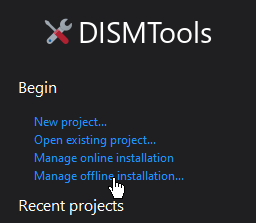
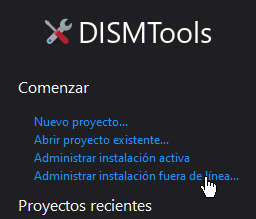
Resource update (part 4)

diff --git a/es/docs/img_tasks/offline_inst_mgmt.md b/es/docs/img_tasks/offline_inst_mgmt.md
@@ -1,14 +1,14 @@
-# Offline installation management mode
+# Modo de administración de imágenes fuera de línea
 
-DISMTools 0.4 lets you manage installations in any partition (referred to as an "offline installation") using the same interface you are used to when managing standard projects and Windows images.
+DISMTools 0.4 y versiones posteriores le permiten administrar instalaciones en cualquier partición (referido como una "instalación fuera de línea") usando la misma interfaz a la que está acostumbrado cuando administra proyectos estándar e imágenes de Windows.
 
 <p align="center">
 	<img src="../../res/img_tasks/offline_inst_mgmt/offline_inst_mgmt.png" />
 </p>
 
-## Accessing this mode
+## Acceder a este modo
 
-You can access this mode in 2 ways: by clicking "Manage offline installation" in the home screen or in the File menu.
+Puede acceder a este modo de 2 formas: haciendo clic en "Administrar instalación fuera de línea" en la pantalla principal o en el menú Archivo.
 
 <p align="center">
 	<td>
@@ -21,23 +21,23 @@ You can access this mode in 2 ways: by clicking "Manage offline installation" in
 	</td>
 </p>
 
-Then, you have to choose the disk containing the Windows installation you want to manage:
+Luego, tiene que escoger el disco que contenga la instalación de Windows que desea administrar:
 
 <p align="center">
 	<img src="../../res/img_tasks/offline_inst_mgmt/off_inst_mgmt_choose_disk.png" />
 </p>
 
-### Unsupported drives
+### Discos no soportados
 
-You can't perform management of an installation on a drive if it meets at least one criterion out of the following:
+No puede realizar administración de una instalación en un disco si cumple al menos uno de los siguientes criterios:
 
-- The drive contains an installation of Windows Vista or an earlier version of Windows
-- The drive containing the installation is not formatted as NTFS
-- The drive containing the installation is mounted as a removable medium
-- The drive containing the installation is mounted with read-only privileges
+- El disco contiene una instalación de Windows Vista o anterior de Windows
+- El disco que contenga la instalación no está formateado con NTFS
+- El disco que contenga la instalación se ha montado como un medio removible
+- El disco que contenga la instalación se ha montado con privilegios de solo lectura
 
-## Differences with standard project management
+## Diferencias con la administración de proyectos estándar
 
-There are some differences between managing an offline installation and a standard project, which will be mentioned below:
+Hay algunas diferencias entre la administración de instalaciones fuera de línea y un proyecto estándar, que serán mencionadas abajo:
 
-- You can't save in the offline installation management mode, because all commit operations are disabled
+- No puede guardar en el modo de administración de instalaciones fuera de línea debido a que todas las opciones de guardado están deshabilitadas

diff --git a/es/docs/img_tasks/img_tasks.md b/es/docs/img_tasks/img_tasks.md
@@ -1,53 +1,63 @@
-# Image tasks
+# Tareas de la imagen
 
-With DISMTools you can perform a variety of tasks, which are organized depending on what action they perform to an image.
+Con DISMTools puede realizar una variedad de tareas, que están organizadas dependiendo de qué hacen en la imagen.
 
-## Where do I find the tasks?
+## ¿Dónde puedo encontrar las tareas?
 
-Every task can be accessed from the "Commands" menu.
+Todas las tareas son accesibles desde el menú "Comandos".
 
 <p align="center">
 	<img src="../../res/img_tasks/cmd_menu.png"/>
 </p>
 
-You also have access to the most essential tasks in the center of the screen.
+También tiene acceso a las tareas más esenciales en el centro de la pantalla.
 
 <p align="center">
 	<img src="../../res/img_tasks/quick_actions.png"/>
 </p>
 
-Do note that these options become accessible when you create a project and mount an image to it. To do those actions, follow the [Getting started](../getting_started/start.md) guide for more information.
+Dese cuenta de que estas opciones son accesibles cuando crea un proyecto y monta una imagen en él. Para hacer estas acciones, siga la guía de [Introducción](../getting_started/start.md) para más información.
 
-## Available tasks
+## Tareas disponibles
 
-- Image management
+- Administración de imágenes
 
-	- Applying Windows images
-	- Capturing Windows images
-	- Performing image cleanup
+	- Anexar cambios a un nuevo índice en la imagen de Windows
+	- Aplicar imágenes de Windows
+	- Capturar imágenes de Windows
+	- Limpiar puntos de montaje
+	- Exportar imágenes de Windows
+	- Obtener información del archivo de imagen
+	- Realizar limpieza de imágenes
 	
-- Package management
+- Administración de paquetes
 
-	- Adding packages
-	- Removing packages
+	- Añadir paquetes
+	- Eliminar paquetes
+	- Obtener información de paquetes
 
-- Feature management
+- Administración de características
 
-	- Enabling features
-	- Disabling features
+	- Habilitar características
+	- Deshabilitar características
+	- Obtener información de características
 
-- AppX package management
+- Administración de paquetes AppX
 
-	- AppX package documentation
-	- Adding AppX packages
-	- Removing AppX packages
+	- Añadir paquetes AppX
+	- Eliminar paquetes AppX
+	- Obtener información de paquetes AppX instalados
 	
-- Capability management
+- Administración de funcionalidades
 
-	- Adding capabilities
-	- Removing capabilities
+	- Añadir funcionalidades
+	- Eliminar funcionalidades
+	- Obtener información de funcionalidades
 
-- Driver management
+- Administración de controladores
 
-	- Adding drivers
-	- Removing drivers
+	- Añadir controladores
+	- Eliminar controladores
+	- Exportar controladores a una carpeta
+	- Importar controladores de otra imagen o instalación
+	- Obtener información de controladores

diff --git a/en/docs/img_tasks/img_tasks.md b/en/docs/img_tasks/img_tasks.md
@@ -22,32 +22,42 @@ Do note that these options become accessible when you create a project and mount
 
 - Image management
 
+	- Appending changes to a new index in the Windows image
 	- Applying Windows images
 	- Capturing Windows images
+	- Cleaning up mount points
+	- Exporting Windows images
+	- Getting image file information
 	- Performing image cleanup
 	
 - Package management
 
 	- Adding packages
 	- Removing packages
+	- Getting package information
 
 - Feature management
 
 	- Enabling features
 	- Disabling features
+	- Getting feature information
 
 - AppX package management
 
-	- AppX package documentation
 	- Adding AppX packages
 	- Removing AppX packages
+	- Getting installed AppX package information
 	
 - Capability management
 
 	- Adding capabilities
 	- Removing capabilities
+	- Getting capability information
 
 - Driver management
 
 	- Adding drivers
 	- Removing drivers
+	- Exporting drivers to a folder
+	- Importing drivers from another image or installation
+	- Getting driver information

diff --git a/en/docs/img_tasks/offline_inst_mgmt.md b/en/docs/img_tasks/offline_inst_mgmt.md
@@ -1,6 +1,6 @@
 # Offline installation management mode
 
-DISMTools 0.4 lets you manage installations in any partition (referred to as an "offline installation") using the same interface you are used to when managing standard projects and Windows images.
+DISMTools 0.4 and later let you manage installations in any partition (referred to as an "offline installation") using the same interface you are used to when managing standard projects and Windows images.
 
 <p align="center">
 	<img src="../../res/img_tasks/offline_inst_mgmt/offline_inst_mgmt.png" />
